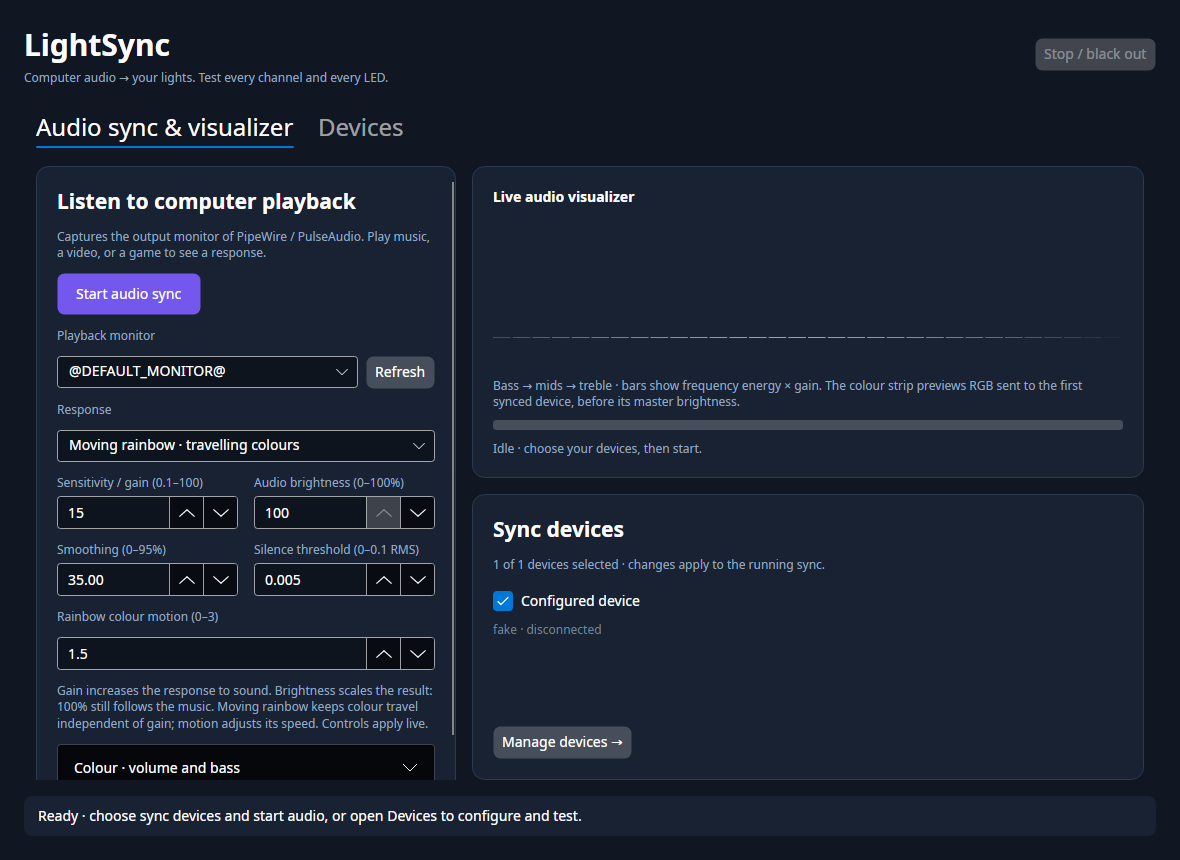
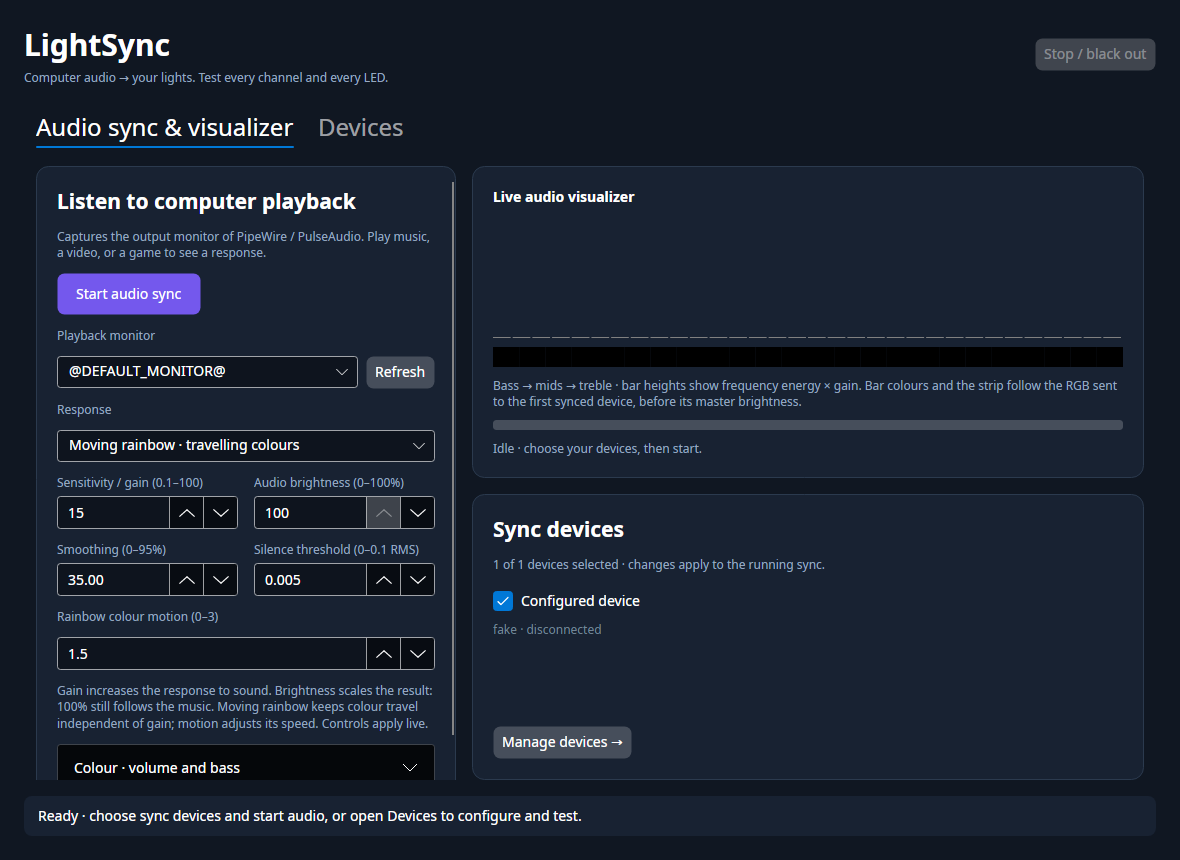
Sync visualizer colours with audio response

Changed region(s): [[0.3966, 0.393, 0.9763, 0.4837]]

diff --git a/src/LightSync.Core/Audio/AudioSyncSession.cs b/src/LightSync.Core/Audio/AudioSyncSession.cs
@@ -15,11 +15,14 @@ public sealed class AudioSyncSession
     private readonly IReadOnlyList<ILightDevice> devices;
     private readonly AudioColorMapper mapper;
     private readonly RgbColor[][] frames;
+    private readonly int reportEveryFrames;
 
-    public AudioSyncSession(IAudioCapture capture, IReadOnlyList<ILightDevice> devices, AudioConfig options)
+    public AudioSyncSession(IAudioCapture capture, IReadOnlyList<ILightDevice> devices, AudioConfig options,
+        int reportEveryFrames = 10)
     {
         ArgumentNullException.ThrowIfNull(capture);
         ArgumentNullException.ThrowIfNull(devices);
+        ArgumentOutOfRangeException.ThrowIfNegativeOrZero(reportEveryFrames);
         if (devices.Count == 0)
         {
             throw new ArgumentException("Select at least one device.", nameof(devices));
@@ -27,6 +30,7 @@ public sealed class AudioSyncSession
 
         this.capture = capture;
         this.devices = devices;
+        this.reportEveryFrames = reportEveryFrames;
         mapper = new AudioColorMapper(options);
         frames = new RgbColor[devices.Count][];
         for (var i = 0; i < devices.Count; i++)
@@ -65,7 +69,7 @@ public sealed class AudioSyncSession
                 }
 
                 count++;
-                if (count % 10 == 0)
+                if (count % reportEveryFrames == 0)
                 {
                     report?.Invoke(new AudioSyncStatus(count, features, analyzer.Spectrum, frames[0]));
                 }

diff --git a/src/LightSync.Desktop/AudioVisualizer.cs b/src/LightSync.Desktop/AudioVisualizer.cs
@@ -28,6 +28,14 @@ internal sealed class AudioVisualizer : Control
             colors[i].Color = Color.FromRgb(color.R, color.G, color.B);
         }
 
+        for (var i = 0; i < bars.Length; i++)
+        {
+            // Sample the same requested LED frame as the strip, including live response,
+            // colour, brightness and smoothing changes. Do not create a second palette.
+            bars[i].Color = colors.Length == 0 ? Colors.Gray
+                : colors[(int)((i + 0.5) * colors.Length / bars.Length)].Color;
+        }
+
         InvalidateVisual();
     }
 
@@ -37,6 +45,11 @@ internal sealed class AudioVisualizer : Control
         foreach (var brush in colors)
         {
             brush.Color = Colors.Black;
+        }
+
+        foreach (var brush in bars)
+        {
+            brush.Color = Colors.Gray;
         }
 
         InvalidateVisual();
@@ -50,8 +63,6 @@ internal sealed class AudioVisualizer : Control
         for (var i = 0; i < spectrum.Length; i++)
         {
             var height = Math.Clamp(spectrum[i] * gain, 0, 1) * plotHeight;
-            bars[i].Color = Color.FromRgb((byte)(255 * (1 - (double)i / spectrum.Length)),
-                (byte)(180 * Math.Sin(Math.PI * i / spectrum.Length)), (byte)(255 * i / spectrum.Length));
             context.DrawRectangle(bars[i], null,
                 new Rect(i * width, plotHeight - height, Math.Max(0, width - 2), Math.Max(1, height)));
         }

diff --git a/tests/LightSync.Core.Tests/AudioTests.cs b/tests/LightSync.Core.Tests/AudioTests.cs
@@ -180,6 +180,28 @@ public sealed class AudioTests
         Assert.True(broken.BlackoutAttempted);
     }
 
+    [Theory]
+    [InlineData(1)]
+    [InlineData(3)]
+    [InlineData(10)]
+    public async Task ReportsCompletedDeviceFramesAtTheRequestedCadence(int interval)
+    {
+        var token = TestContext.Current.CancellationToken;
+        await using var device = new FakeDevice(3);
+        await device.ConnectAsync(token);
+        await using var capture = new FiniteAudioCapture(11);
+        var session = new AudioSyncSession(capture, [device],
+            new AudioConfig { Mode = "rainbow", Smoothing = 0 }, reportEveryFrames: interval);
+        List<long> reports = [];
+        await Assert.ThrowsAsync<IOException>(() => session.RunAsync(status =>
+        {
+            reports.Add(status.Frames);
+            Assert.Equal(status.Frames, (long)device.FrameCount);
+            Assert.Equal(device.GetLastFrame(), status.Colors.ToArray());
+        }, token));
+        Assert.Equal(Enumerable.Range(1, 11 / interval).Select(index => (long)index * interval), reports);
+    }
+
     [Fact]
     public async Task CancelledSessionStillBlacksOutDevices()
     {

diff --git a/src/LightSync.Desktop/MainWindow.axaml.cs b/src/LightSync.Desktop/MainWindow.axaml.cs
@@ -679,7 +679,7 @@ internal sealed partial class MainWindow : Window, IAsyncDisposable
         BeginWorker(async cancellationToken =>
         {
             await using var capture = new PulseAudioCapture(audio.Source);
-            audioSession = new AudioSyncSession(capture, devices, audio);
+            audioSession = new AudioSyncSession(capture, devices, audio, reportEveryFrames: 3);
             await audioSession.RunAsync(status =>
             {
                 var gain = configuration.Audio.Gain;

diff --git a/docs/DESKTOP.md b/docs/DESKTOP.md
@@ -130,9 +130,15 @@ colour controls apply live. Settings are saved on start, stop, device sync membe
 close. Existing profiles keep their selected response; select **Moving rainbow**
 to try the new effect.
 
-The visualizer shows 32 logarithmic frequency bands from the FFT, scaled by gain,
-plus an RGB strip showing the actual requested frame for the first checked
-device. Bars can reach their ceiling without freezing rainbow hue movement.
+The visualizer shows 32 logarithmic frequency bands from the FFT. Bar heights
+show energy scaled by gain; bar colours sample the same requested LED frame as
+the RGB strip below them. Both follow the selected response, including live
+mode changes, fixed audio colour, output brightness and smoothing. Volume and
+bass use the selected audio colour; rainbow travels with the strip; spectrum
+follows its red/green/blue regions. The preview uses the first checked device
+and updates every three captured blocks (about 15.6 times per second at 48 kHz
+with 1024-sample blocks, before capture/send overhead). Bars can reach their
+ceiling without freezing rainbow hue movement.
 The preview precedes the device master brightness; it is not measured output.
 The live meter shows amplified RMS and numeric raw band energies. Silence fades
 to black. Stop, capture failure or window close attempts to black out the devices and releases audio capture.
@@ -180,15 +186,17 @@ On 2026-10-01 the user confirmed computer-audio sync, the Avalonia interface and
 live device removal were added after that confirmation; their perceived effect
 still needs feedback on the physical lamp.
 
-Verification on 2026-10-01: Release build **0 warnings**, **281 tests passed**,
+Verification on 2026-10-01: Release build **0 warnings**, **284 tests passed**,
 **0 skipped**, CLI Native AOT publish and help succeeded. A three-second native
 audio smoke test captured playback through `parec` into the simulated 24-zone
 device, reported frames and exited cleanly on SIGTERM.
 
 The separate sections were also checked with an isolated Avalonia headless
 session: tab visibility, tuning preserved across navigation, independent audio
-and test colours, and removal persisted to `devices.json`. These checks use a
-simulated profile; screenshots show the actual rendered interface.
+and test colours, removal persisted to `devices.json`, and all 32 rendered bar
+colours matching the reported LED frame and output strip while switching through
+all four response modes. These checks use a simulated profile; screenshots show
+the actual rendered interface.
 
 Automated tests cover audio frequency separation, stereo phase
 cancellation, silence, live settings, rainbow motion independent of gain, exact

diff --git a/docs/ARCHITECTURE.md b/docs/ARCHITECTURE.md
@@ -208,9 +208,12 @@ Its intensity uses a linear response up to half intensity and a soft shoulder
 above it; colours continue travelling at high gain. Live options are validated
 and copied into an atomic snapshot. Buffers are allocated once per session.
 The GUI copies 32 logarithmic spectrum bins and the first device's requested RGB
-from report callbacks for its visualizer. Profile removal or sync membership
-changes stop capture, black out the old targets and restart with remaining
-selected devices.
+from report callbacks for its visualizer. Frequency bar heights represent
+amplified input energy; their colours sample the same LED frame as the output
+strip, so selecting another response cannot leave a fixed rainbow behind.
+Desktop reports arrive every three blocks; CLI diagnostics default to ten.
+Profile removal or sync membership changes stop capture, black out the old
+targets and restart with remaining selected devices.
 
 `AudioSyncSession` analyzes each block once and creates a full frame for each
 connected device, including devices with different LED counts. Any failure ends

diff --git a/docs/DEVELOPMENT.md b/docs/DEVELOPMENT.md
@@ -47,8 +47,11 @@ are pre-sized, pixel work uses `Span<T>`, and there is no LINQ on the hot path.
 Heavy pixel reduction is pushed into GStreamer, not done in C#. Audio uses reusable
 FFT and spectrum buffers; advance rainbow state once per capture block before
 mapping every device. Report callbacks expose reused buffers and must copy them
-before returning if retaining data. UI redraws and diagnostics are throttled to
-every ten audio blocks.
+before returning if retaining data. Desktop previews report every three audio
+blocks; CLI diagnostics default to every ten. Set `AudioSyncSession`'s
+`reportEveryFrames` to choose the cadence.
+Visualizer bar colours sample the reported device frame; never generate a second
+palette in the renderer or maintain a separate response mapper for the preview.
 
 **Never log a secret.** Tokens live in memory and in request URIs only.
 `NanoleafSettings.ToString()` omits the token deliberately, and a malformed
